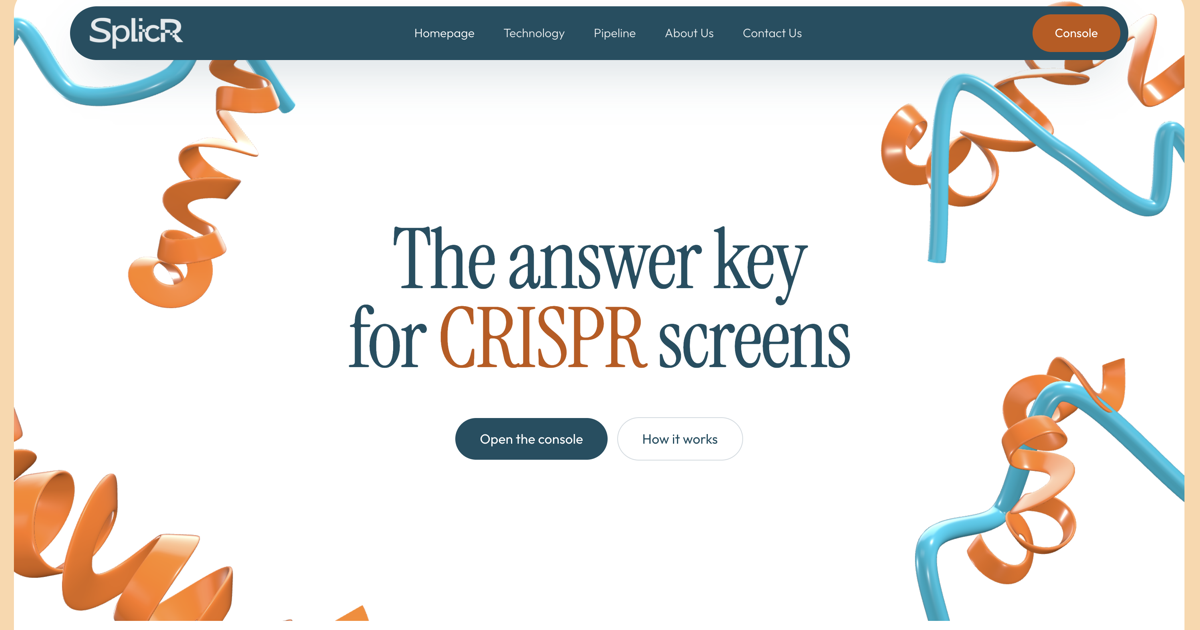
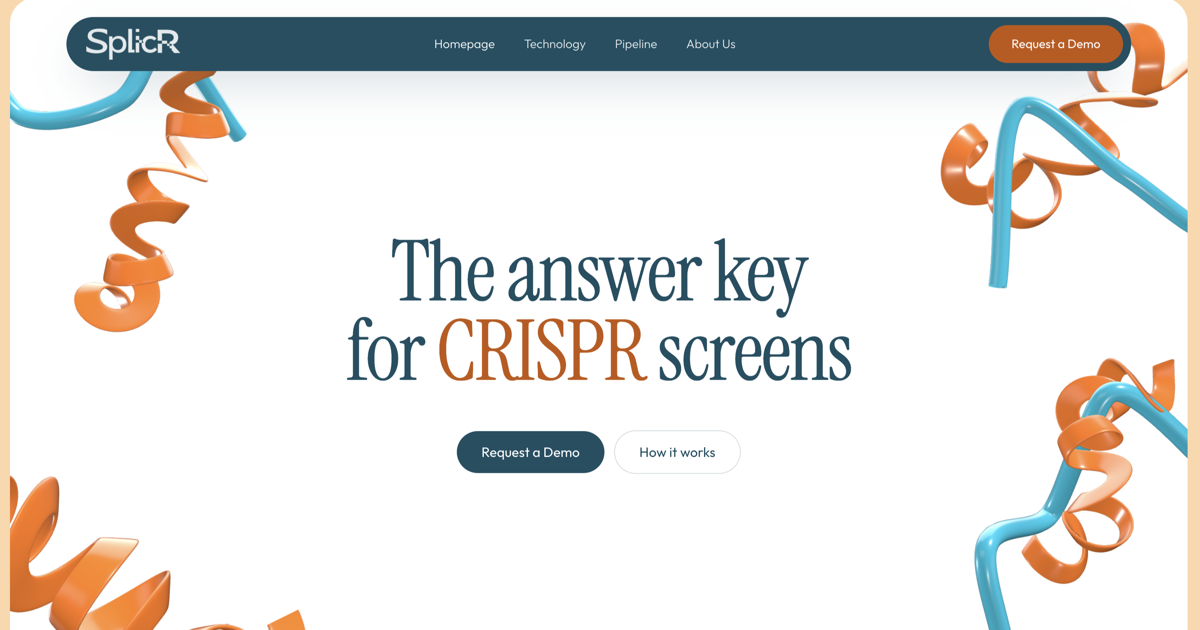
frontend

Changed region(s): [[0.0, 0.0, 1.0, 1.0], [0.2775, 0.3619, 0.7092, 0.6032], [0.37, 0.6635, 0.6167, 0.754]]

diff --git a/apps/web/src/components/three/scenes.tsx b/apps/web/src/components/three/scenes.tsx
@@ -1,5 +1,7 @@
 "use client";
 
+import { useThree } from "@react-three/fiber";
+
 import {
   CoilRibbon,
   CYAN,
@@ -12,38 +14,72 @@ import {
   TwistRibbon,
 } from "./primitives";
 
+/**
+ * Corner positions as fractions of the visible viewport rather than fixed
+ * world units, so the four ribbons still frame the edges of the screen on a
+ * narrow/tall phone viewport instead of drifting off the sides of the camera
+ * frustum the way fixed x positions do.
+ */
+function useCorners() {
+  const { width, height } = useThree((s) => s.viewport);
+  const halfW = width / 2;
+  const halfH = height / 2;
+  // On a narrow phone viewport halfW shrinks a lot more than halfH does, so
+  // the ribbons (whose own size is fixed in world units) are scaled down too
+  // — otherwise they'd swallow the whole width instead of framing a corner.
+  const REFERENCE_HALF_W = 8;
+  const objectScale = Math.min(1, Math.max(0.4, halfW / REFERENCE_HALF_W));
+  return {
+    topLeft: [-0.92 * halfW, 0.72 * halfH, -1] as const,
+    topRight: [0.9 * halfW, 0.7 * halfH, -1.5] as const,
+    bottomLeft: [-0.88 * halfW, -0.76 * halfH, -0.5] as const,
+    bottomRight: [0.89 * halfW, -0.72 * halfH, -1] as const,
+    objectScale,
+  };
+}
+
 /** Ribbons and tubes framing the four corners of the home hero. */
-export function HeroFieldScene({ className }: { className?: string }) {
+function HeroFieldRig() {
+  const { topLeft, topRight, bottomLeft, bottomRight, objectScale } = useCorners();
   return (
-    <Scene className={className} camera={{ position: [0, 0, 14], fov: 34 }}>
+    <>
       <Studio />
       {/* top left */}
       <Drift speed={0.8} rotation={0.25} float={0.5}>
-        <group position={[-6.6, 3.2, -1]} rotation={[0.2, 0.4, 0.3]}>
+        <group position={topLeft} rotation={[0.2, 0.4, 0.3]} scale={objectScale}>
           <SmoothTube seed={11} spread={[2.2, 1.6, 1]} radius={0.13} />
           <CoilRibbon seed={21} spread={[2.4, 1, 0.8]} radius={0.45} turns={6} scale={0.8} position={[0.2, -1.4, 0.4]} rotation={[0.3, 0.2, 0.9]} />
         </group>
       </Drift>
       {/* top right */}
       <Drift speed={0.9} rotation={0.3} float={0.6}>
-        <group position={[6.4, 3.1, -1.5]} rotation={[-0.2, -0.5, 0.2]}>
+        <group position={topRight} rotation={[-0.2, -0.5, 0.2]} scale={objectScale}>
           <CoilRibbon seed={5} spread={[2.6, 1.2, 0.9]} radius={0.5} turns={7} scale={0.85} />
           <SmoothTube seed={19} spread={[2, 1.6, 1]} radius={0.12} position={[0.4, -1.2, 0.6]} rotation={[0.4, 0.5, 0.1]} />
         </group>
       </Drift>
       {/* bottom left */}
       <Drift speed={0.7} rotation={0.2} float={0.5}>
-        <group position={[-6.2, -3.4, -0.5]} rotation={[0.3, -0.3, -0.4]}>
+        <group position={bottomLeft} rotation={[0.3, -0.3, -0.4]} scale={objectScale}>
           <CoilRibbon seed={33} spread={[3.2, 1.2, 0.9]} radius={0.62} turns={8} width={0.5} />
         </group>
       </Drift>
       {/* bottom right */}
       <Drift speed={0.85} rotation={0.3} float={0.6}>
-        <group position={[6.3, -3.2, -1]} rotation={[0.4, 0.4, 0.6]}>
+        <group position={bottomRight} rotation={[0.4, 0.4, 0.6]} scale={objectScale}>
           <SmoothTube seed={41} spread={[2.5, 2, 1.1]} radius={0.14} />
           <CoilRibbon seed={47} spread={[2.2, 1, 0.8]} radius={0.42} turns={6} scale={0.75} position={[0.6, 1.2, 0.3]} rotation={[0.8, 0.3, 0.2]} />
         </group>
       </Drift>
+    </>
+  );
+}
+
+/** Ribbons and tubes framing the four corners of the home hero. */
+export function HeroFieldScene({ className }: { className?: string }) {
+  return (
+    <Scene className={className} camera={{ position: [0, 0, 14], fov: 34 }}>
+      <HeroFieldRig />
     </Scene>
   );
 }

diff --git a/apps/web/src/lib/supabase/proxy.ts b/apps/web/src/lib/supabase/proxy.ts
@@ -6,6 +6,13 @@ import { supabaseConfigured, supabasePublishableKey, supabaseUrl } from "./env";
 export const DEMO_COOKIE = "splicr_demo";
 
 /**
+ * The console (dashboard, login, signup, invite links) isn't open to the
+ * public yet. Routed to the marketing homepage here instead of deleted so
+ * the code is ready to flip back on later.
+ */
+const DISABLED_PREFIXES = ["/login", "/signup", "/dashboard", "/invite"];
+
+/**
  * Keeps the Supabase session fresh on every request and gates the
  * dashboard. Visitors without a session can still explore the dashboard
  * in demo mode (cookie set by /api/demo) so the product can be reviewed
@@ -14,7 +21,12 @@ export const DEMO_COOKIE = "splicr_demo";
 export async function updateSession(request: NextRequest) {
   let response = NextResponse.next({ request });
 
-  const isDashboard = request.nextUrl.pathname.startsWith("/dashboard");
+  const pathname = request.nextUrl.pathname;
+  if (DISABLED_PREFIXES.some((prefix) => pathname === prefix || pathname.startsWith(`${prefix}/`))) {
+    return NextResponse.redirect(new URL("/", request.url));
+  }
+
+  const isDashboard = pathname.startsWith("/dashboard");
   const isDemo = request.cookies.get(DEMO_COOKIE)?.value === "1";
 
   if (!supabaseConfigured) {

diff --git a/apps/web/src/components/marketing/nav.tsx b/apps/web/src/components/marketing/nav.tsx
@@ -55,13 +55,13 @@ export function MarketingNav({ variant = "pill" }: { variant?: "pill" | "bar" })
 
           <div className="flex items-center gap-2">
             <Link
-              href="/login"
+              href="/contact"
               className={cn(
                 "inline-flex items-center justify-center rounded-full bg-orange-500 text-white",
                 "px-7 py-3 text-[0.95rem] font-normal transition-colors hover:bg-orange-600",
               )}
             >
-              Console
+              Request a Demo
             </Link>
             <button
               type="button"
@@ -94,8 +94,8 @@ export function MarketingNav({ variant = "pill" }: { variant?: "pill" | "bar" })
               <Link href="/careers" onClick={close} className="py-3 text-lg border-b border-white/10">
                 Careers
               </Link>
-              <Link href="/login" onClick={close} className="py-3 text-lg text-orange-300">
-                Console
+              <Link href="/contact" onClick={close} className="py-3 text-lg text-orange-300">
+                Request a Demo
               </Link>
             </div>
           </div>

diff --git a/apps/web/src/components/marketing/page-transition.tsx b/apps/web/src/components/marketing/page-transition.tsx
@@ -1,0 +1,27 @@
+"use client";
+
+import { AnimatePresence, motion } from "motion/react";
+import { usePathname } from "next/navigation";
+
+/**
+ * Cross-fades marketing pages on navigation instead of the hard cut the
+ * App Router gives you by default, so moving between Homepage / Technology /
+ * Pipeline / etc. feels like one continuous site rather than separate loads.
+ */
+export function PageTransition({ children }: { children: React.ReactNode }) {
+  const pathname = usePathname();
+
+  return (
+    <AnimatePresence mode="wait" initial={false}>
+      <motion.div
+        key={pathname}
+        initial={{ opacity: 0, y: 14 }}
+        animate={{ opacity: 1, y: 0 }}
+        exit={{ opacity: 0, y: -10 }}
+        transition={{ duration: 0.45, ease: [0.22, 1, 0.36, 1] }}
+      >
+        {children}
+      </motion.div>
+    </AnimatePresence>
+  );
+}

diff --git a/apps/web/src/app/api/demo/route.ts b/apps/web/src/app/api/demo/route.ts
@@ -1,15 +1,12 @@
 import { NextResponse } from "next/server";
 
-import { DEMO_COOKIE } from "@/lib/supabase/proxy";
-
-/** Enables demo mode: the dashboard renders with fixture data, no account needed. */
+/**
+ * Enables demo mode: the dashboard renders with fixture data, no account
+ * needed. Disabled while the console is not open to the public — the
+ * proxy blocks /dashboard outright regardless of this cookie, so this just
+ * sends visitors home instead of setting it.
+ */
 export async function GET(request: Request) {
-  const response = NextResponse.redirect(new URL("/dashboard", request.url));
-  response.cookies.set(DEMO_COOKIE, "1", {
-    path: "/",
-    httpOnly: true,
-    sameSite: "lax",
-    maxAge: 60 * 60 * 24 * 7,
-  });
-  return response;
+  return NextResponse.redirect(new URL("/", request.url));
 }
+

diff --git a/apps/web/src/lib/site.ts b/apps/web/src/lib/site.ts
@@ -14,21 +14,17 @@ export const site = {
 };
 
 export const marketingNav = [
-  { href: "/", label: "Homepage" },
   { href: "/technology", label: "Technology" },
   { href: "/pipeline", label: "Pipeline" },
   { href: "/about", label: "About Us" },
-  { href: "/contact", label: "Contact Us" },
 ] as const;
 
 export const footerColumns = [
   {
     title: "Product",
     links: [
-      { href: "/technology", label: "Technology" },
+      { href: "/technology", label: "Tech" },
       { href: "/pipeline", label: "Pipeline" },
-      { href: "/dashboard", label: "Dashboard" },
-      { href: "/login", label: "Sign in" },
     ],
   },
   {

diff --git a/apps/web/src/components/marketing/sections/hero.tsx b/apps/web/src/components/marketing/sections/hero.tsx
@@ -59,8 +59,8 @@ export function Hero() {
           transition={{ duration: 0.8, delay: 0.42, ease: [0.22, 1, 0.36, 1] }}
           className="mt-10 md:mt-12 flex flex-wrap items-center justify-center gap-3"
         >
-          <LinkButton href="/login" tone="teal" size="lg" icon="none">
-            Open the console
+          <LinkButton href="/contact" tone="teal" size="lg" icon="none">
+            Request a Demo
           </LinkButton>
           <LinkButton href="/technology" tone="ghost" size="lg" icon="none">
             How it works

diff --git a/apps/web/src/app/layout.tsx b/apps/web/src/app/layout.tsx
@@ -20,8 +20,8 @@ const serif = Instrument_Serif({
 export const metadata: Metadata = {
   metadataBase: new URL("https://splicr.org"),
   title: {
-    default: "SplicR | The Answer Key for CRISPR Screens",
-    template: "%s · SplicR",
+    default: "SplicR",
+    template: "%s | SplicR",
   },
   description:
     "For every hit in a CRISPR screen, SplicR tells you how likely it is to be real, why, and what to do next. Built on every public screen re-analyzed the same way, plus the record of which hits held up.",

diff --git a/apps/web/src/app/(marketing)/pipeline/page.tsx b/apps/web/src/app/(marketing)/pipeline/page.tsx
@@ -73,8 +73,8 @@ export default function PipelinePage() {
 
         <Reveal delay={0.1}>
           <div className="mt-14 flex flex-wrap items-center gap-3">
-            <LinkButton href="/login" tone="orange" icon="none">
-              Run a screen
+            <LinkButton href="/contact" tone="orange" icon="none">
+              Request a Demo
             </LinkButton>
             <LinkButton href="/technology" tone="ghost" icon="none">
               See the Atlas

diff --git a/apps/web/src/components/marketing/sections/cta.tsx b/apps/web/src/components/marketing/sections/cta.tsx
@@ -32,8 +32,8 @@ export function CtaSection() {
               <LinkButton href="/contact" tone="teal" icon="none">
                 Request a blind test
               </LinkButton>
-              <LinkButton href="/login" tone="white" icon="none">
-                Try for free
+              <LinkButton href="/contact" tone="white" icon="none">
+                Request a Demo
               </LinkButton>
             </div>
           </div>

diff --git a/apps/web/src/app/(marketing)/layout.tsx b/apps/web/src/app/(marketing)/layout.tsx
@@ -1,9 +1,10 @@
 import { Footer } from "@/components/marketing/footer";
+import { PageTransition } from "@/components/marketing/page-transition";
 
 export default function MarketingLayout({ children }: { children: React.ReactNode }) {
   return (
     <>
-      {children}
+      <PageTransition>{children}</PageTransition>
       <Footer />
     </>
   );

diff --git a/apps/web/src/app/(marketing)/about/page.tsx b/apps/web/src/app/(marketing)/about/page.tsx
@@ -7,7 +7,7 @@ import { SectionHeading } from "@/components/ui/bits";
 import { Reveal, Stagger, StaggerItem } from "@/components/ui/reveal";
 
 export const metadata: Metadata = {
-  title: "About",
+  title: "About Us",
   description:
     "SplicR was started by researchers at Cornell University to answer one question: which hits are real?",
 };
